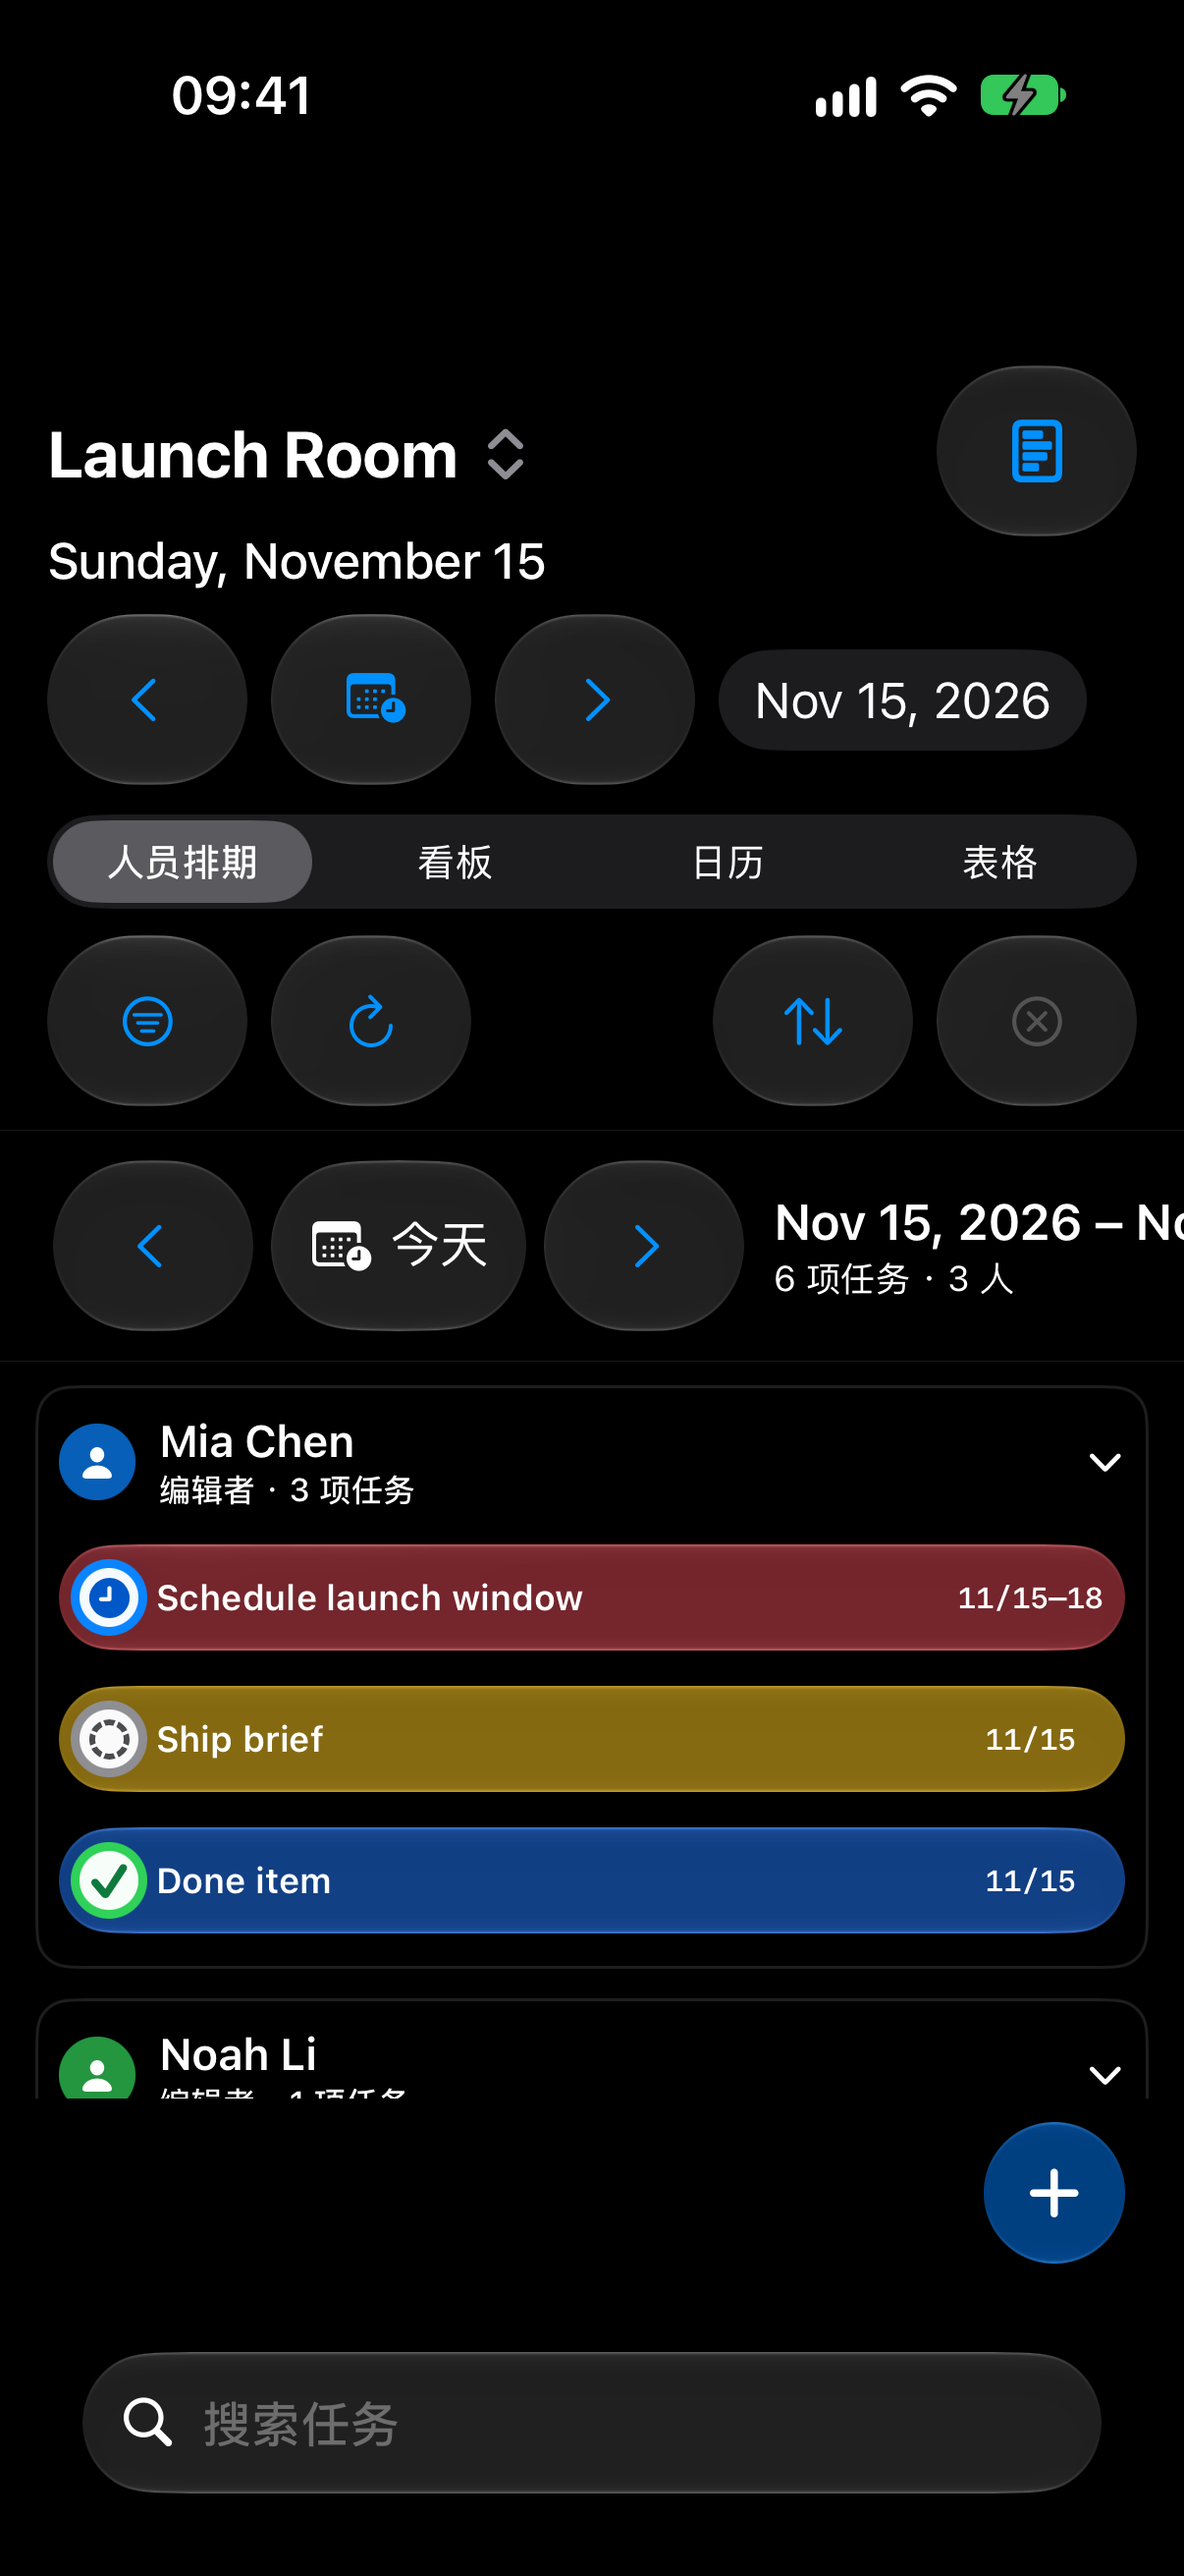
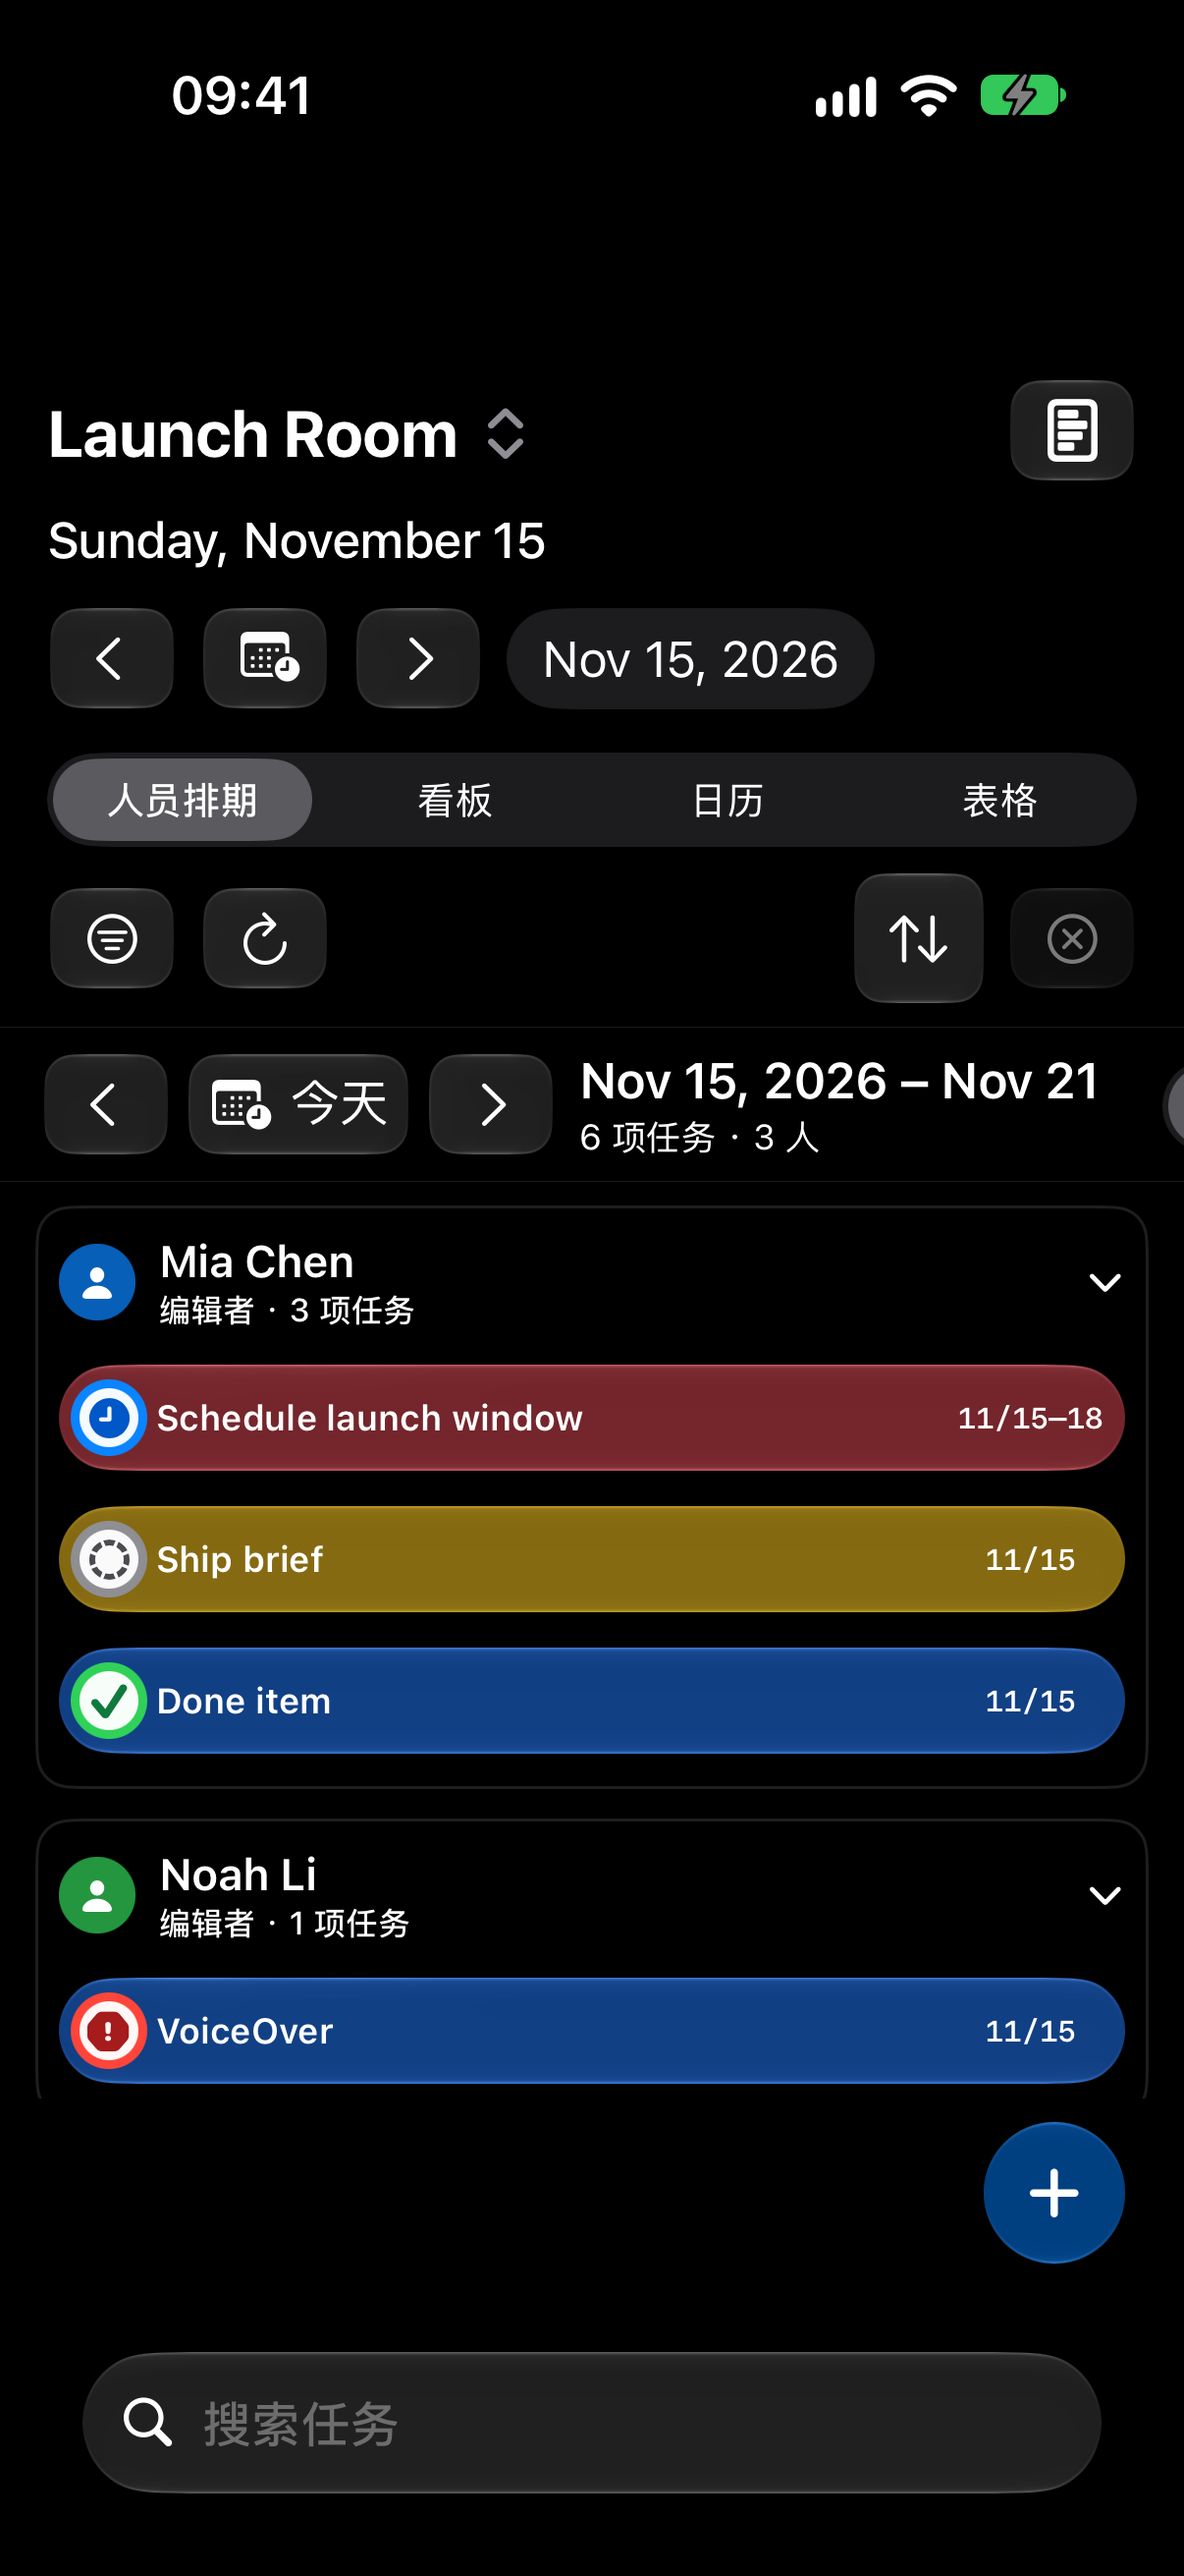
Compact planner toolbar glass controls

diff --git a/Sources/KshiftUI/PlannerView.swift b/Sources/KshiftUI/PlannerView.swift
@@ -152,10 +152,10 @@ struct PlannerView: View {
                 Button(action: onOpenPlanDepth) {
                     Image(systemName: "chart.bar.doc.horizontal")
                         .font(.title3.weight(.semibold))
-                        .frame(width: 44, height: 44)
+                        .frame(width: 30, height: 30)
                         .contentShape(Rectangle())
                 }
-                .buttonStyle(.glass)
+                .buttonStyle(KshiftCompactGlassButtonStyle())
                 .accessibilityLabel("计划深度")
                 .accessibilityHint("打开甘特、历史、附件和报告")
                 .accessibilityIdentifier("open-plan-depth")
@@ -230,9 +230,9 @@ struct PlannerView: View {
             Image(systemName: model.filter.isActive
                 ? "line.3.horizontal.decrease.circle.fill"
                 : "line.3.horizontal.decrease.circle")
-                .frame(width: 44, height: 44)
+                .frame(width: 30, height: 30)
         }
-        .buttonStyle(.glass)
+        .buttonStyle(KshiftCompactGlassButtonStyle())
         .accessibilityLabel("筛选任务")
         .accessibilityIdentifier("filter-button")
         .popover(isPresented: $isShowingFilters, arrowEdge: .bottom) {
@@ -245,9 +245,9 @@ struct PlannerView: View {
             Swift.Task { await model.refresh() }
         } label: {
             Image(systemName: "arrow.clockwise")
-                .frame(width: 44, height: 44)
+                .frame(width: 30, height: 30)
         }
-        .buttonStyle(.glass)
+        .buttonStyle(KshiftCompactGlassButtonStyle())
         .accessibilityLabel("刷新共享快照")
         .accessibilityIdentifier("refresh-button")
     }
@@ -265,27 +265,27 @@ struct PlannerView: View {
                 model.addDaysToSelection(-1)
             } label: {
                 Image(systemName: "chevron.left")
-                    .frame(width: 44, height: 44)
+                    .frame(width: 30, height: 30)
             }
-            .buttonStyle(.glass)
+            .buttonStyle(KshiftCompactGlassButtonStyle())
             .accessibilityLabel("前一天")
 
             Button {
                 model.selectToday()
             } label: {
                 Image(systemName: "calendar.badge.clock")
-                    .frame(width: 44, height: 44)
+                    .frame(width: 30, height: 30)
             }
-            .buttonStyle(.glass)
+            .buttonStyle(KshiftCompactGlassButtonStyle())
             .accessibilityLabel("今天")
 
             Button {
                 model.addDaysToSelection(1)
             } label: {
                 Image(systemName: "chevron.right")
-                    .frame(width: 44, height: 44)
+                    .frame(width: 30, height: 30)
             }
-            .buttonStyle(.glass)
+            .buttonStyle(KshiftCompactGlassButtonStyle())
             .accessibilityLabel("后一天")
         }
     }
@@ -314,10 +314,10 @@ struct PlannerView: View {
                 }
             } label: {
                 Image(systemName: "arrow.up.arrow.down")
-                    .frame(width: 44, height: 44)
+                    .frame(width: 30, height: 30)
             }
             .menuStyle(.button)
-            .buttonStyle(.glass)
+            .buttonStyle(KshiftCompactGlassButtonStyle())
             .accessibilityLabel("排序")
             .accessibilityIdentifier("sort-menu")
 
@@ -325,9 +325,9 @@ struct PlannerView: View {
                 model.clearSelection()
             } label: {
                 Image(systemName: "xmark.circle")
-                    .frame(width: 44, height: 44)
+                    .frame(width: 30, height: 30)
             }
-            .buttonStyle(.glass)
+            .buttonStyle(KshiftCompactGlassButtonStyle())
             .disabled(model.selectedTaskIDs.isEmpty)
             .help("清除任务选择")
             .accessibilityLabel("清除选择")

diff --git a/Sources/KshiftUI/PeopleSchedule/PeopleScheduleView.swift b/Sources/KshiftUI/PeopleSchedule/PeopleScheduleView.swift
@@ -92,15 +92,15 @@ struct PeopleScheduleView: View {
 
     private var scheduleToolbar: some View {
         ScrollView(.horizontal, showsIndicators: false) {
-            HStack(spacing: 10) {
+            HStack(spacing: 8) {
                 HStack(spacing: 6) {
                     Button {
                         model.moveSchedulePeriod(-1)
                     } label: {
                         Image(systemName: "chevron.left")
-                            .frame(width: 44, height: 44)
+                            .frame(width: 30, height: 30)
                     }
-                    .buttonStyle(.glass)
+                    .buttonStyle(KshiftCompactGlassButtonStyle())
                     .accessibilityLabel("上一周期")
                     .accessibilityIdentifier("schedule-previous")
 
@@ -108,10 +108,10 @@ struct PeopleScheduleView: View {
                         model.selectScheduleToday()
                     } label: {
                         Label("今天", systemImage: "calendar.badge.clock")
-                            .frame(minHeight: 44)
+                            .frame(minHeight: 34)
                             .foregroundStyle(strongTextColor)
                     }
-                    .buttonStyle(.glass)
+                    .buttonStyle(KshiftCompactGlassButtonStyle())
                     .accessibilityLabel("今天")
                     .accessibilityIdentifier("schedule-today")
 
@@ -119,9 +119,9 @@ struct PeopleScheduleView: View {
                         model.moveSchedulePeriod(1)
                     } label: {
                         Image(systemName: "chevron.right")
-                            .frame(width: 44, height: 44)
+                            .frame(width: 30, height: 30)
                     }
-                    .buttonStyle(.glass)
+                    .buttonStyle(KshiftCompactGlassButtonStyle())
                     .accessibilityLabel("下一周期")
                     .accessibilityIdentifier("schedule-next")
                 }
@@ -163,19 +163,19 @@ struct PeopleScheduleView: View {
                     isShowingSettings.toggle()
                 } label: {
                     Image(systemName: "slider.horizontal.3")
-                        .frame(width: 44, height: 44)
+                        .frame(width: 30, height: 30)
                 }
-                .buttonStyle(.glass)
+                .buttonStyle(KshiftCompactGlassButtonStyle())
                 .accessibilityLabel("排期布局设置")
                 .accessibilityIdentifier("schedule-settings")
                 .popover(isPresented: $isShowingSettings, arrowEdge: .bottom) {
                     PeopleScheduleSettingsPopover(model: model)
                 }
             }
-            .padding(.horizontal, 18)
-            .padding(.vertical, 10)
+            .padding(.horizontal, 14)
+            .padding(.vertical, 4)
         }
-        .frame(minHeight: 64)
+        .frame(minHeight: 52)
     }
 
     private var peopleColumn: some View {

diff --git a/Sources/KshiftUI/Styles/KshiftGlassStyle.swift b/Sources/KshiftUI/Styles/KshiftGlassStyle.swift
@@ -125,3 +125,25 @@ public struct KshiftSecondaryGlassButton<Label: View>: View {
     .frame(minHeight: 44)
   }
 }
+
+public struct KshiftCompactGlassButtonStyle: ButtonStyle {
+  @Environment(\.isEnabled) private var isEnabled
+
+  public init() {}
+
+  public func makeBody(configuration: Configuration) -> some View {
+    configuration.label
+      .foregroundStyle(.primary)
+      .padding(.horizontal, 6)
+      .frame(minWidth: 36, minHeight: 34)
+      .contentShape(shape)
+      .glassEffect(.regular.interactive(), in: shape)
+      .frame(minWidth: 44, minHeight: 44)
+      .contentShape(Rectangle())
+      .opacity(isEnabled ? 1 : 0.45)
+  }
+
+  private var shape: RoundedRectangle {
+    RoundedRectangle(cornerRadius: 10, style: .continuous)
+  }
+}

diff --git a/Apps/KshiftIOSUITests/KshiftIOSUITests.swift b/Apps/KshiftIOSUITests/KshiftIOSUITests.swift
@@ -80,6 +80,7 @@ final class KshiftIOSUITests: XCTestCase {
                 "Schedule launch window",
                 "Mia Chen",
                 "Noah Li",
+                "编辑者 · 1 项任务",
                 "编辑者 · 2 项任务",
                 "编辑者 · 3 项任务",
                 "S",
@@ -96,6 +97,7 @@ final class KshiftIOSUITests: XCTestCase {
                 "VoiceOver",
                 "未分配",
                 "无负责人 · 1 项任务",
+                "今天",
             ])
             let waivedDenseChartLayout = denseChartLabels.contains(label)
                 && (issue.auditType == .dynamicType || issue.auditType == .textClipped)

diff --git a/docs/evidence/people-schedule/glass-task-bar/README.md b/docs/evidence/people-schedule/glass-task-bar/README.md
@@ -17,7 +17,7 @@ description: 记录人员排期任务条使用原生染色 Liquid Glass、明亮
 
 ## 触发原因
 
-用户要求任务条使用 SwiftUI Liquid Glass，不使用纯黑背景。Desktop 和 Mobile 必须用红、黄、蓝分别表达 P0、P1 和 P2。任务条必须扁平、紧凑、单行，并增加工作区可见任务数量。第二轮视觉反馈指出三个问题：任务条未统一左对齐、标题溢出胶囊、状态符号不清晰。
+用户要求任务条使用 SwiftUI Liquid Glass，不使用纯黑背景。Desktop 和 Mobile 必须用红、黄、蓝分别表达 P0、P1 和 P2。任务条必须扁平、紧凑、单行，并增加工作区可见任务数量。第二轮视觉反馈指出三个问题：任务条未统一左对齐、标题溢出胶囊、状态符号不清晰。后续视觉反馈指出 toolbar buttons 过高且 glass 颜色过深。
 
 ## 修复内容
 
@@ -40,17 +40,22 @@ description: 记录人员排期任务条使用原生染色 Liquid Glass、明亮
 - 状态菜单保持 44pt 触控区域。
 - 优先级继续由 task bar tint 表达：P0 使用 `#D92D3A`，P1 使用 `#FFC400`，P2 使用 `#0066FF`，P3 使用 `#5F6368`。
 - 禁止纯黑任务条背景、自绘玻璃、渐变、模糊和阴影。
+- Planner toolbar 和 PeopleSchedule toolbar 使用 `KshiftCompactGlassButtonStyle`。
+- Toolbar buttons 使用 neutral `.glassEffect(.regular.interactive())` 和 primary content。
+- Toolbar visual height 为 34pt。Outer hit target 为 44pt。
+- Schedule toolbar 的 vertical padding 为 4pt，minimum height 为 52pt。
+- Toolbar buttons 不使用 accent-tinted `.buttonStyle(.glass)`。
 
 ## 视觉证据
 
-截图使用固定日期 `2026-11-15` 和 Demo 数据。截图显示 P0、P1、P2 任务条在 Light Mode 和 Dark Mode 中保留优先级颜色、玻璃高光和单行紧凑布局。任务条保留统一的日期间距，不贴边绘制；单日标题完整显示或被 tail truncation 裁切；状态符号使用白芯高对比徽章，完成状态为绿色。
+截图使用固定日期 `2026-11-15` 和 Demo 数据。截图显示 P0、P1、P2 任务条在 Light Mode 和 Dark Mode 中保留优先级颜色、玻璃高光和单行紧凑布局。任务条保留统一的日期间距，不贴边绘制；单日标题完整显示或被 tail truncation 裁切；状态符号使用白芯高对比徽章，完成状态为绿色。Toolbar buttons 使用紧凑 neutral glass，不再出现 high-height accent-tinted blocks。
 
 | 文件 | 环境 | 内容 | SHA-256 |
 | --- | --- | --- | --- |
[8 lines of base64/hex data omitted]
 
 旧文件 `macos-task-bar-2026-11-14.png` 和 `ios-task-bar-2026-11-14.png` 是上一版 `.buttonStyle(.glass)` 候选。它们不表示最终视觉结论。
 
@@ -70,7 +75,7 @@ description: 记录人员排期任务条使用原生染色 Liquid Glass、明亮
 | `make check-build-governance` | 通过 |
 | Operations CI | 见 PR #68 checks |
 
-SwiftUI 无障碍审计将 `未分配` 和 `无负责人 · 1 项任务` 报为 contrast diagnostic。截图显示这两个标签为高对比文字。测试只豁免这组无关联背景诊断。优先级徽章的人工对比度为 P0 `4.79:1`、P1 `13.15:1`、P2 `4.83:1`、P3 `6.05:1`。
+SwiftUI 无障碍审计将 `今天`、`未分配` 和 `无负责人 · 1 项任务` 报为 glass background contrast diagnostic。审计还将 `编辑者 · 1 项任务` 报为 compact layout dynamic type diagnostic。截图显示这些 labels 为高对比文字。测试只豁免这些 scoped diagnostics。Status glyph 与 white inner disc 的人工对比度为 `todo` `8.67:1`、`inProgress` `6.57:1`、`blocked` `7.52:1`、`done` `5.42:1`。
 
 ## 未覆盖
 

diff --git a/docs/specs/ui.md b/docs/specs/ui.md
@@ -89,6 +89,7 @@ flowchart TB
 | 次要操作和浮动操作 | `.buttonStyle(.glass)` 或原生 `.glassEffect(...)` | 每控件单独创建容器 |
 | 看板中可拖拽、可选择、可执行命令的任务卡片 | `Glass.regular` 外表面 | 玻璃直接承载低对比文字 |
 | 人员排期任务条 | SwiftUI `Button` + `.glassEffect(.regular.tint(...).interactive(), in: Capsule(style: .continuous))` 和明亮优先级徽章 | `.buttonStyle(.glass)` 作为最终任务条、自绘玻璃、渐变、模糊和阴影 |
+| 人员排期工具栏按钮 | `KshiftCompactGlassButtonStyle`、neutral glass 和 primary content | accent-tinted `.buttonStyle(.glass)`、过高的玻璃容器 |
 | 同组相邻玻璃卡片 | 共用一个 `GlassEffectContainer` | 每卡片一个 container |
 | 纯展示卡片 | 标准材质或清晰内容底板 | 用玻璃作为唯一可读表面 |
 | 正文、密集表格、人员排期、长文本编辑 | 清晰内容底板 | 低对比玻璃正文 |
@@ -142,6 +143,7 @@ flowchart TB
 - `UI-PPL-015`：`compact` 水平尺寸类必须使用按人员分组的纵向任务列表。任务条必须使用 UI-PPL-006 的全宽原生染色玻璃、`Capsule(style: .continuous)` 和单行标题。常规水平尺寸类继续使用人员×日期时间轴。
 - `UI-PPL-016`：人员排期模式不得显示重复的 `SummaryStrip`。任务数量显示在排期工具栏和人员分组标题中。
 - `UI-PPL-017`：任务状态徽章必须使用 26pt 外框、3pt 状态语义色环、白色中性内盘和 `13pt` heavy 状态符号。`todo` 使用 `circle.dashed` 和 `#8E8E93`/`#4B4B50`。`inProgress` 使用 `clock.fill` 和 `#0A84FF`/`#0057C8`。`blocked` 使用 `exclamationmark.octagon.fill` 和 `#FF453A`/`#A61B1B`。`done` 使用 `checkmark` 和 `#30D158`/`#0F7A3D`。优先级继续由 task bar tint 表达。状态菜单保持 44pt 触控区域。
+- `UI-PPL-018`：Planner toolbar 和 PeopleSchedule toolbar 的 action buttons 必须使用 `KshiftCompactGlassButtonStyle`。Visual height 必须为 34pt。Outer hit target 不得小于 44pt。Content 必须使用 primary color。Glass 必须使用 neutral `.glassEffect(.regular.interactive())`。禁止 accent-tinted `.buttonStyle(.glass)` 和 oversized glass container。Schedule toolbar 的 vertical padding 必须为 4pt，minimum height 必须为 52pt。
 
 ## 8. 关联合同
 
